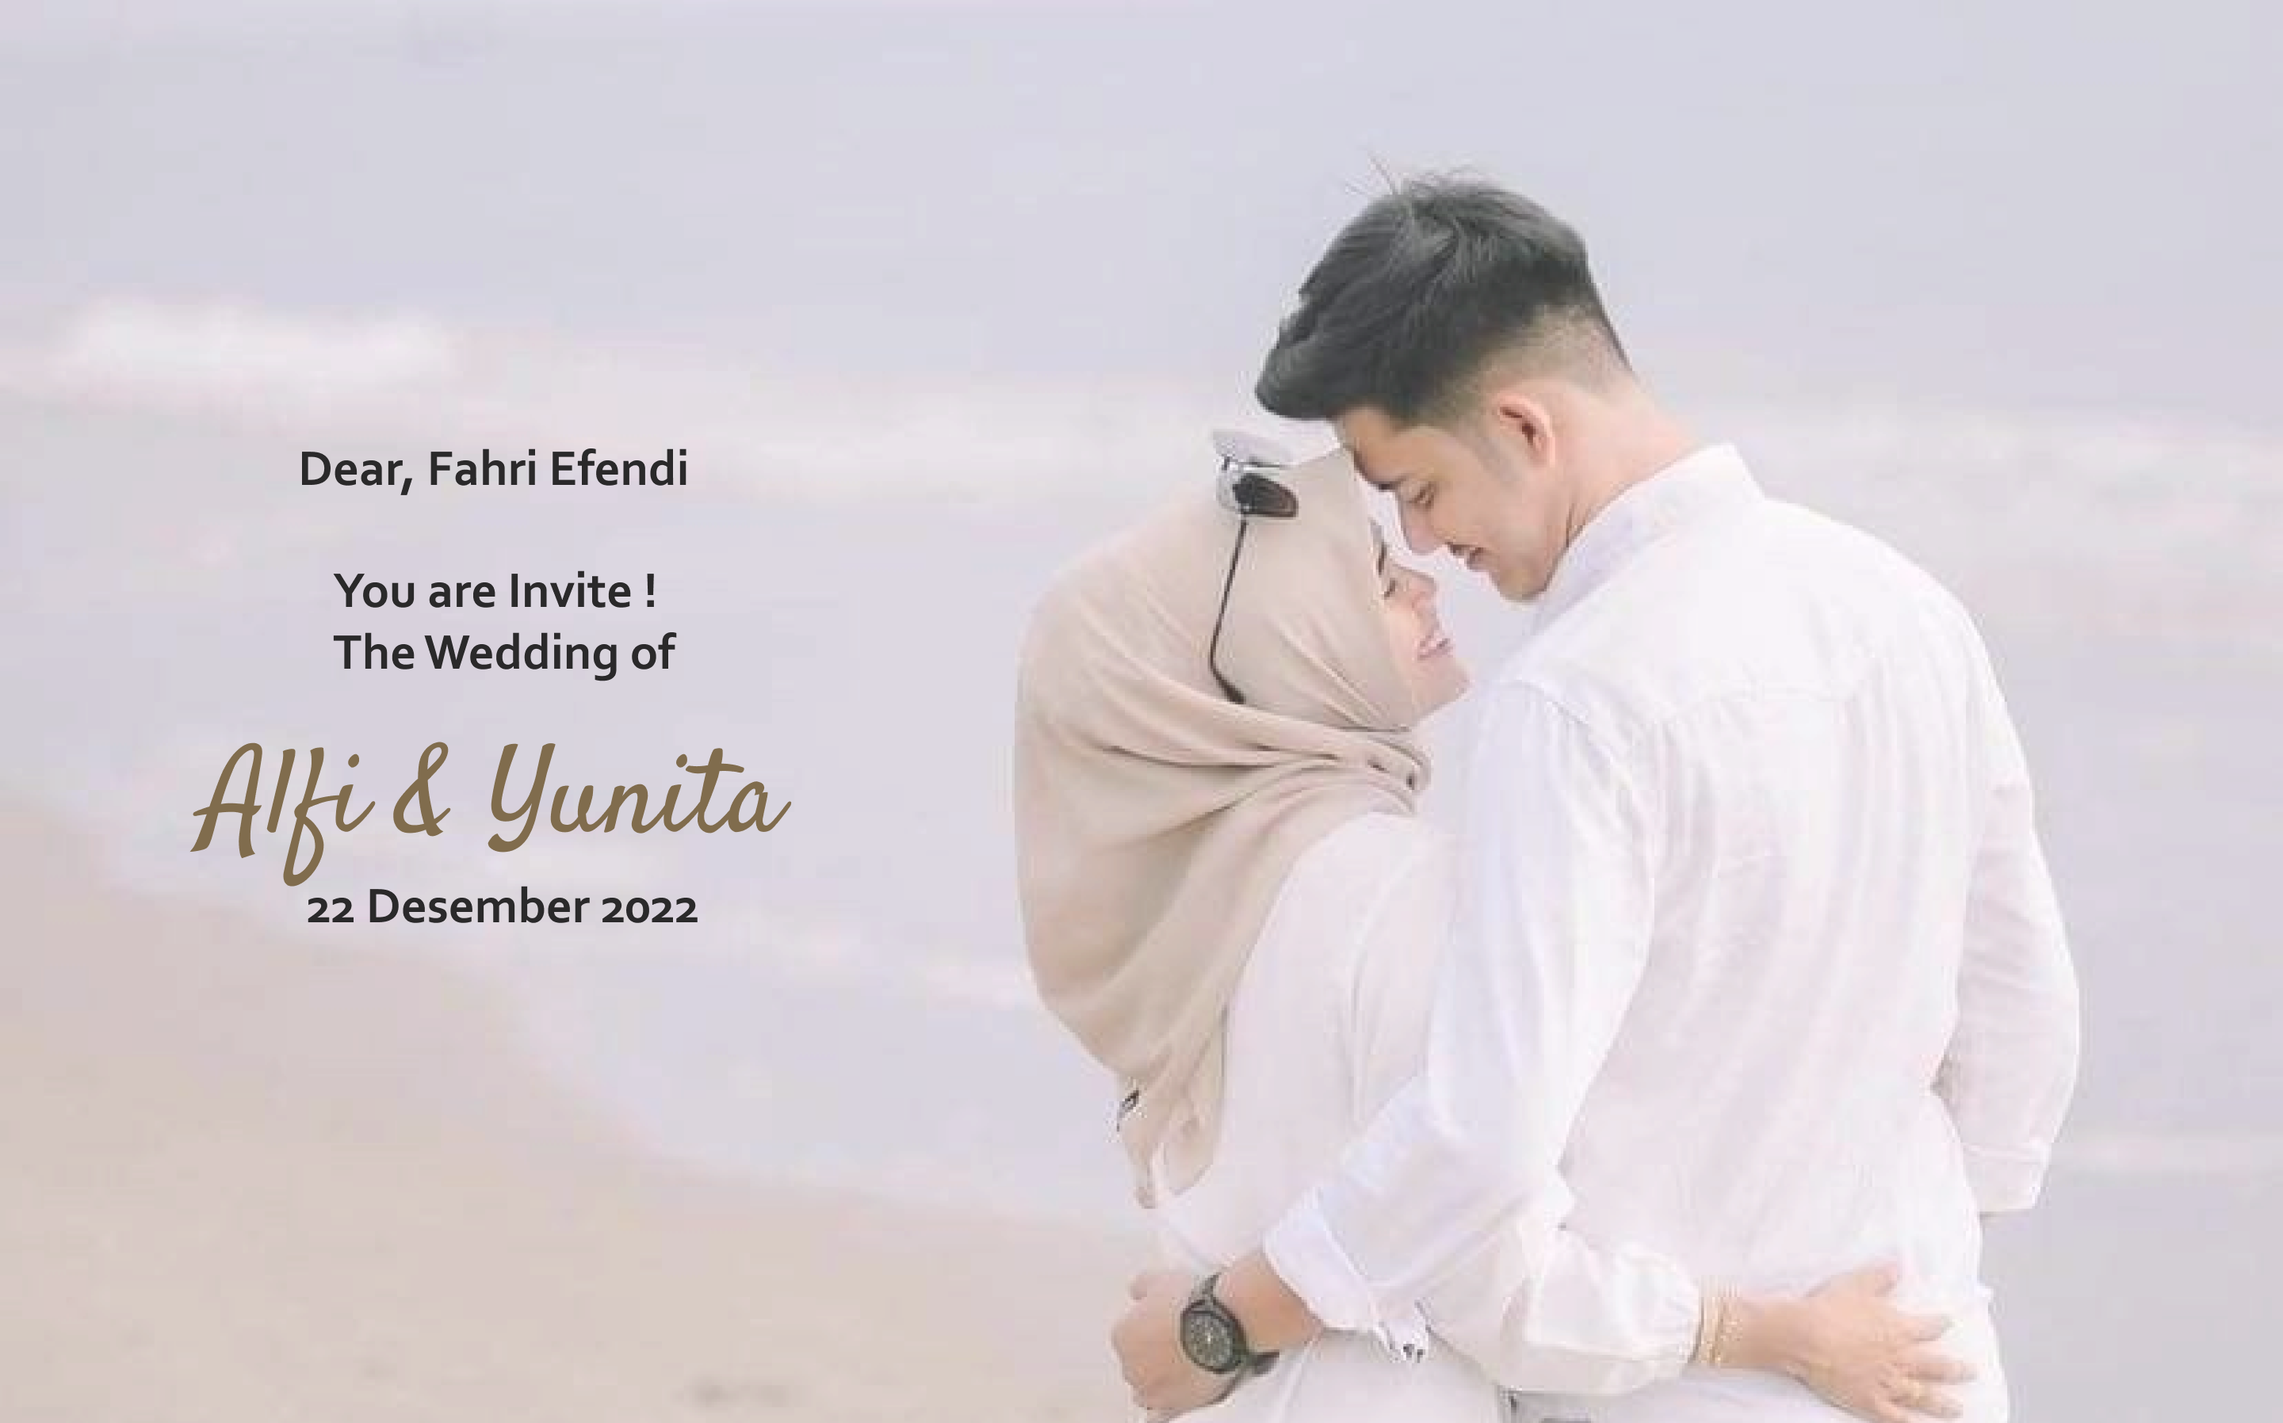
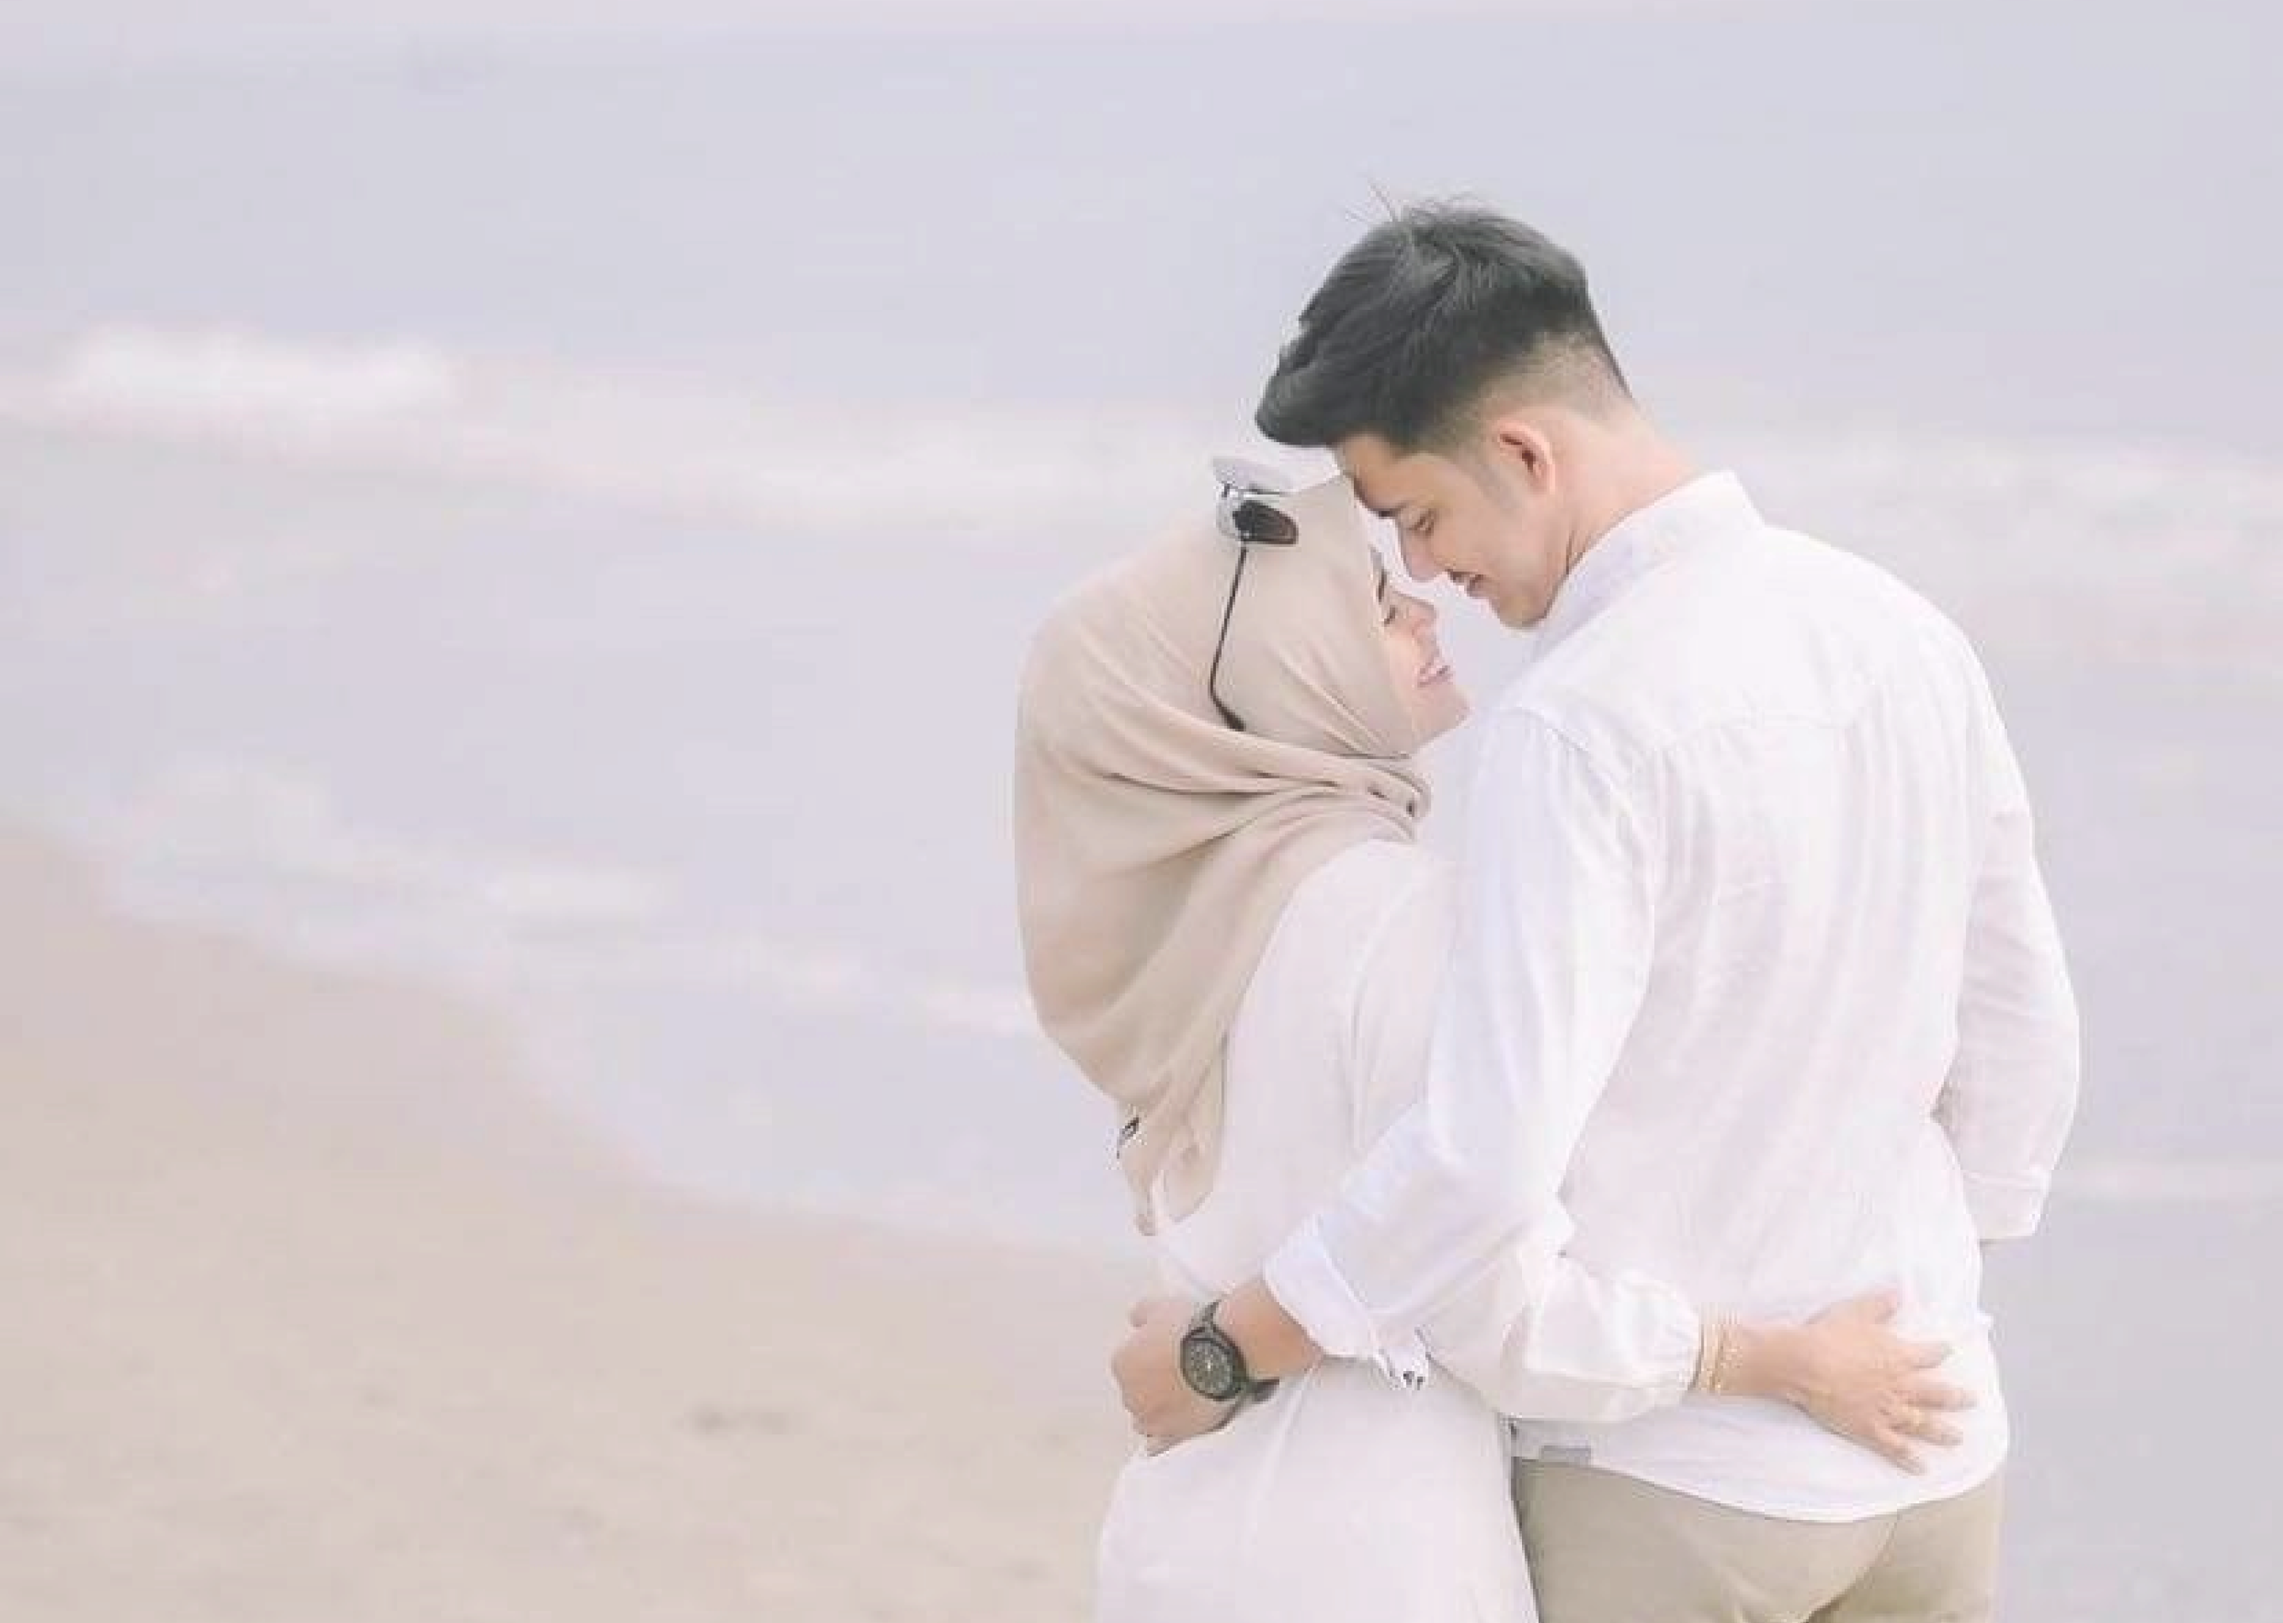
edit homepage

diff --git a/frontend/src/pages/tema/temavin.js b/frontend/src/pages/tema/temavin.js
@@ -4,12 +4,35 @@ import { Link } from 'react-router-dom';
 const Vin = () =>{
     return (
         
-            <div>
-              <img src={require('../../image/vin1.png')} style={{backgroundSize: "cover",width:"100%",zIndex:"1",position:"relative"}}/>
-              <Link to="/Vin2">
-            <Button style={{zIndex:"2",position:"absolute",right:"150px",top:"550px",borderColor:"#000",backgroundColor:"#8D7147",color:"#fff"}}>Buka Undangan</Button>
+            <section>
+             
+      <strong>
+      <Row>
+                
+                
+      <Card.Img src={require('../../image/vin1.png')} style={{backgroundSize: "cover",width:"100%"}} />
+      <Card.ImgOverlay>
+      <Col sm={6} style={{float:"left",height:"auto"}}>
+        <Card.Text style={{textAlign:"center",fontSize:"3vw"}}> Dear, Fahri Efendi </Card.Text>
+        <Card.Text style={{textAlign:"center",fontSize:"2vw"}}>You are Invite !</Card.Text>
+        <Card.Text style={{textAlign:"center",fontSize:"2vw"}}>The Wedding of</Card.Text>
+              <link href="https://fonts.googleapis.com/css?family=Corinthia" rel="stylesheet"></link>
+        <Card.Text style={{fontFamily:"Corinthia",fontSize:"10vw",color:"#816C4D",textAlign:"center"}}>Alfi & Yunita</Card.Text>
+        <Card.Text style={{textAlign:"center",fontSize:"2vw"}}>22 Desember 2022</Card.Text>
+        
+        <Link to="/Vin2">
+            <Button style={{borderColor:"#000",backgroundColor:"#8D7147",color:"#fff",width:"auto"}}>Buka Undangan</Button>
             </Link>
-            </div>
+        </Col>
+        
+      </Card.ImgOverlay>
+      
+                
+              </Row>
+            
+    </strong>
+            </section>
+            
       );
     }
 
